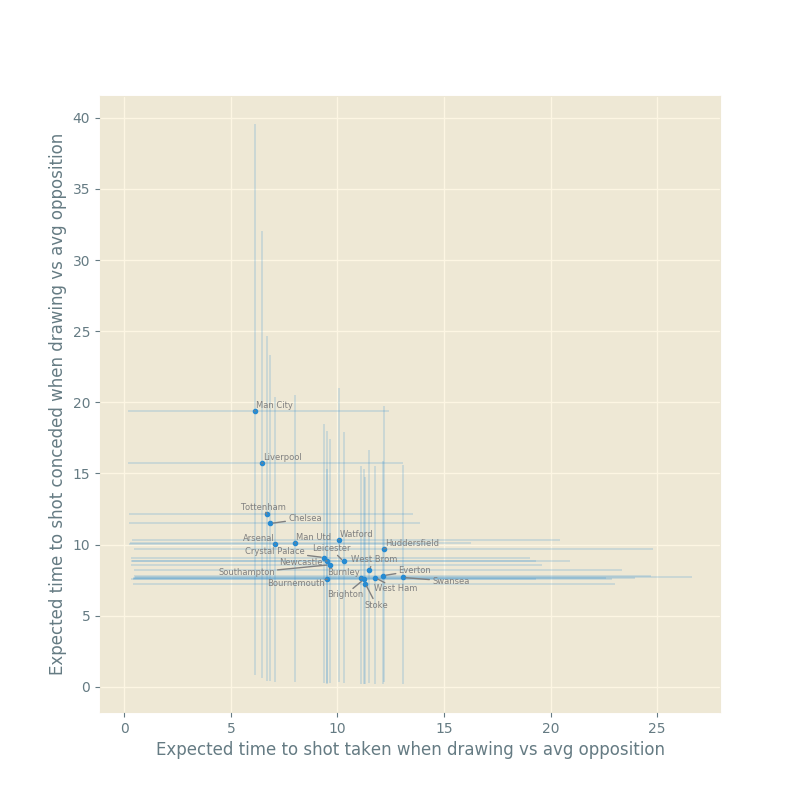
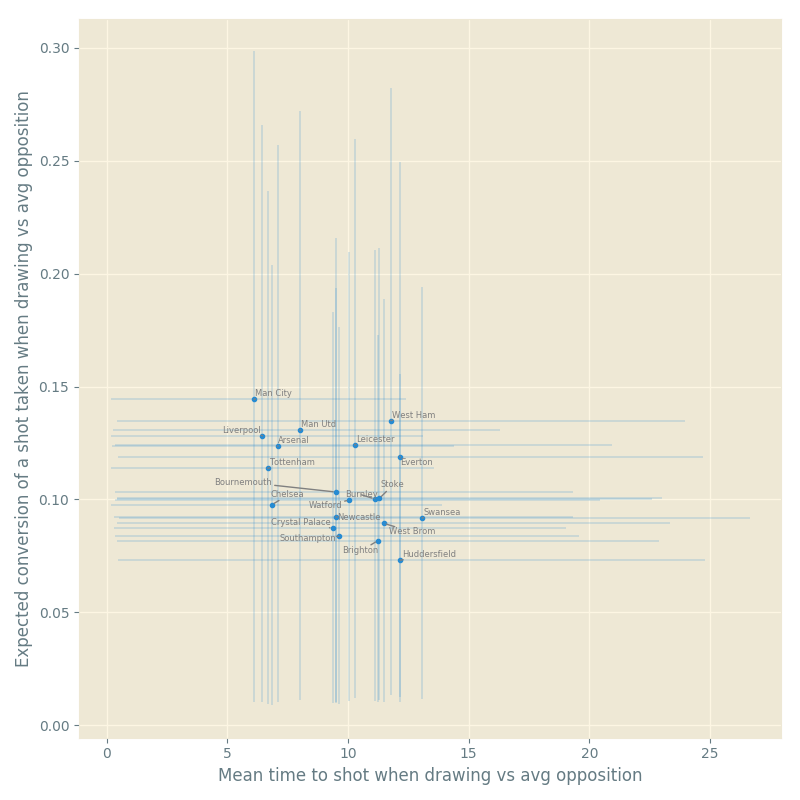
Model shot quality (closes #6)

Changed region(s): [[0.0, 0.0, 1.0, 1.0]]

diff --git a/run.py b/run.py
@@ -4,6 +4,7 @@ import pickle
 from adjustText import adjust_text
 import matplotlib.pyplot as plt
 import numpy as np
+import scipy.special as ss
 import pandas as pd
 import pystan
 
@@ -27,31 +28,43 @@ def fit(model_file, data, force_compile=False, **kwargs):
     return model.sampling(data, **kwargs)
 
 
-def graph(samples, team_map):
+def graph(samples, team_map, attack=True):
     """ Quick visualisation of the team coefficient samples. """
     plt.style.use('Solarize_Light2')
 
+    # Extract the samples
+    generation = samples['generation']
+    prevention = samples['prevention']
+    conversion = samples['conversion']
+    obstruction = samples['obstruction']
+
     labels = list(team_map.keys())  # Magically in the correct order
 
-    # Extract the samples, move out of log space, convert to mean time to shot
-    generation = 1.0 / np.exp((np.mean(samples['prevention']) + samples['generation']))
-    prevention = 1.0 / np.exp((np.mean(samples['generation']) + samples['prevention']))
+    # Select quantities to plot and make them interpretable
+    if attack:
+        xsamples = 1.0 / np.exp(generation + np.mean(prevention))
+        ysamples = ss.expit(conversion + np.mean(obstruction))
+        xlabel = "Mean time to shot when drawing vs avg opposition"
+        ylabel = "Expected conversion of a shot taken when drawing vs avg opposition"
+    else:
+        xsamples = 1.0 / np.exp(prevention + np.mean(generation))
+        ysamples = ss.expit(obstruction + np.mean(conversion))
+        xlabel = "Mean time to conceding a shot when drawing vs avg opposition"
+        ylabel = "Expected conversion of a shot conceded when drawing vs avg opposition"
 
-    gen_means = np.apply_along_axis(np.mean, 0, generation)
-    pre_means = np.apply_along_axis(np.mean, 0, prevention)
-    gen_bounds = np.apply_along_axis(hdi, 0, generation)
-    pre_bounds = np.apply_along_axis(hdi, 0, prevention)
+    xmeans = np.apply_along_axis(np.mean, 0, xsamples)
+    ymeans = np.apply_along_axis(np.mean, 0, ysamples)
+    xerr = np.apply_along_axis(hdi, 0, xsamples)
+    yerr = np.apply_along_axis(hdi, 0, ysamples)
 
-    fig = plt.figure(figsize=(8, 8))
+    fig = plt.figure(figsize=(8, 8), tight_layout=True)
     ax = plt.subplot(111)
-    ax.errorbar(gen_means, pre_means,
-                xerr=gen_bounds, yerr=pre_bounds,
-                elinewidth=0.25, fmt='.')
-    labels = [ax.text(gen_means[i], pre_means[i], labels[i], size=6, color='gray')
+    ax.errorbar(xmeans, ymeans, xerr=xerr, yerr=yerr, elinewidth=0.25, fmt='.')
+    labels = [ax.text(xmeans[i], ymeans[i], labels[i], size=6, color='gray')
               for i in range(len(labels))]
     adjust_text(labels, arrowprops={'arrowstyle': '-', 'color': 'gray'})
-    ax.set_xlabel("Expected time to shot taken when drawing vs avg opposition")
-    ax.set_ylabel("Expected time to shot conceded when drawing vs avg opposition")
+    ax.set_xlabel(xlabel)
+    ax.set_ylabel(ylabel)
     plt.show()
 
 
@@ -82,4 +95,4 @@ def wrangle(filepath):
 
 def run():
     stan_data, team_map = wrangle("data/shots.csv")
-    return fit("shotgen.stan", stan_data, chains=7, iter=4000), team_map
+    return fit("shotgen.stan", stan_data, chains=7, iter=2000), team_map

diff --git a/README.md b/README.md
@@ -11,19 +11,17 @@ Currently the model is best executed and visualised via IPython, like so:
 ```python
 %run run.py
 samples, team_map = run()
-graph(samples, team_map)
+graph(samples, team_map, attack=True)
 ```
 which produces a scatter plot of team coefficients with 50% CIs:
 ![Team coefficients](doc/figures/team_scatter.png)
 
-Note that while the CIs are very wide, this is due
-to the fact that that the mean time to shot is the inverse of the shooting rate
-and thus the effect of extremely small values is magnified. The underlying team 
-coefficients are in fact significantly different from one another, as illustrated
+The CIs are very wide, but in fact the underlying team 
+coefficients are significantly different from one another, as illustrated
 by further running
 
 ```python
-samples.plot()
+samples.plot(pars=['generation', 'prevention', 'conversion', 'obstruction'])
 plt.show()
 ```
 which yields
